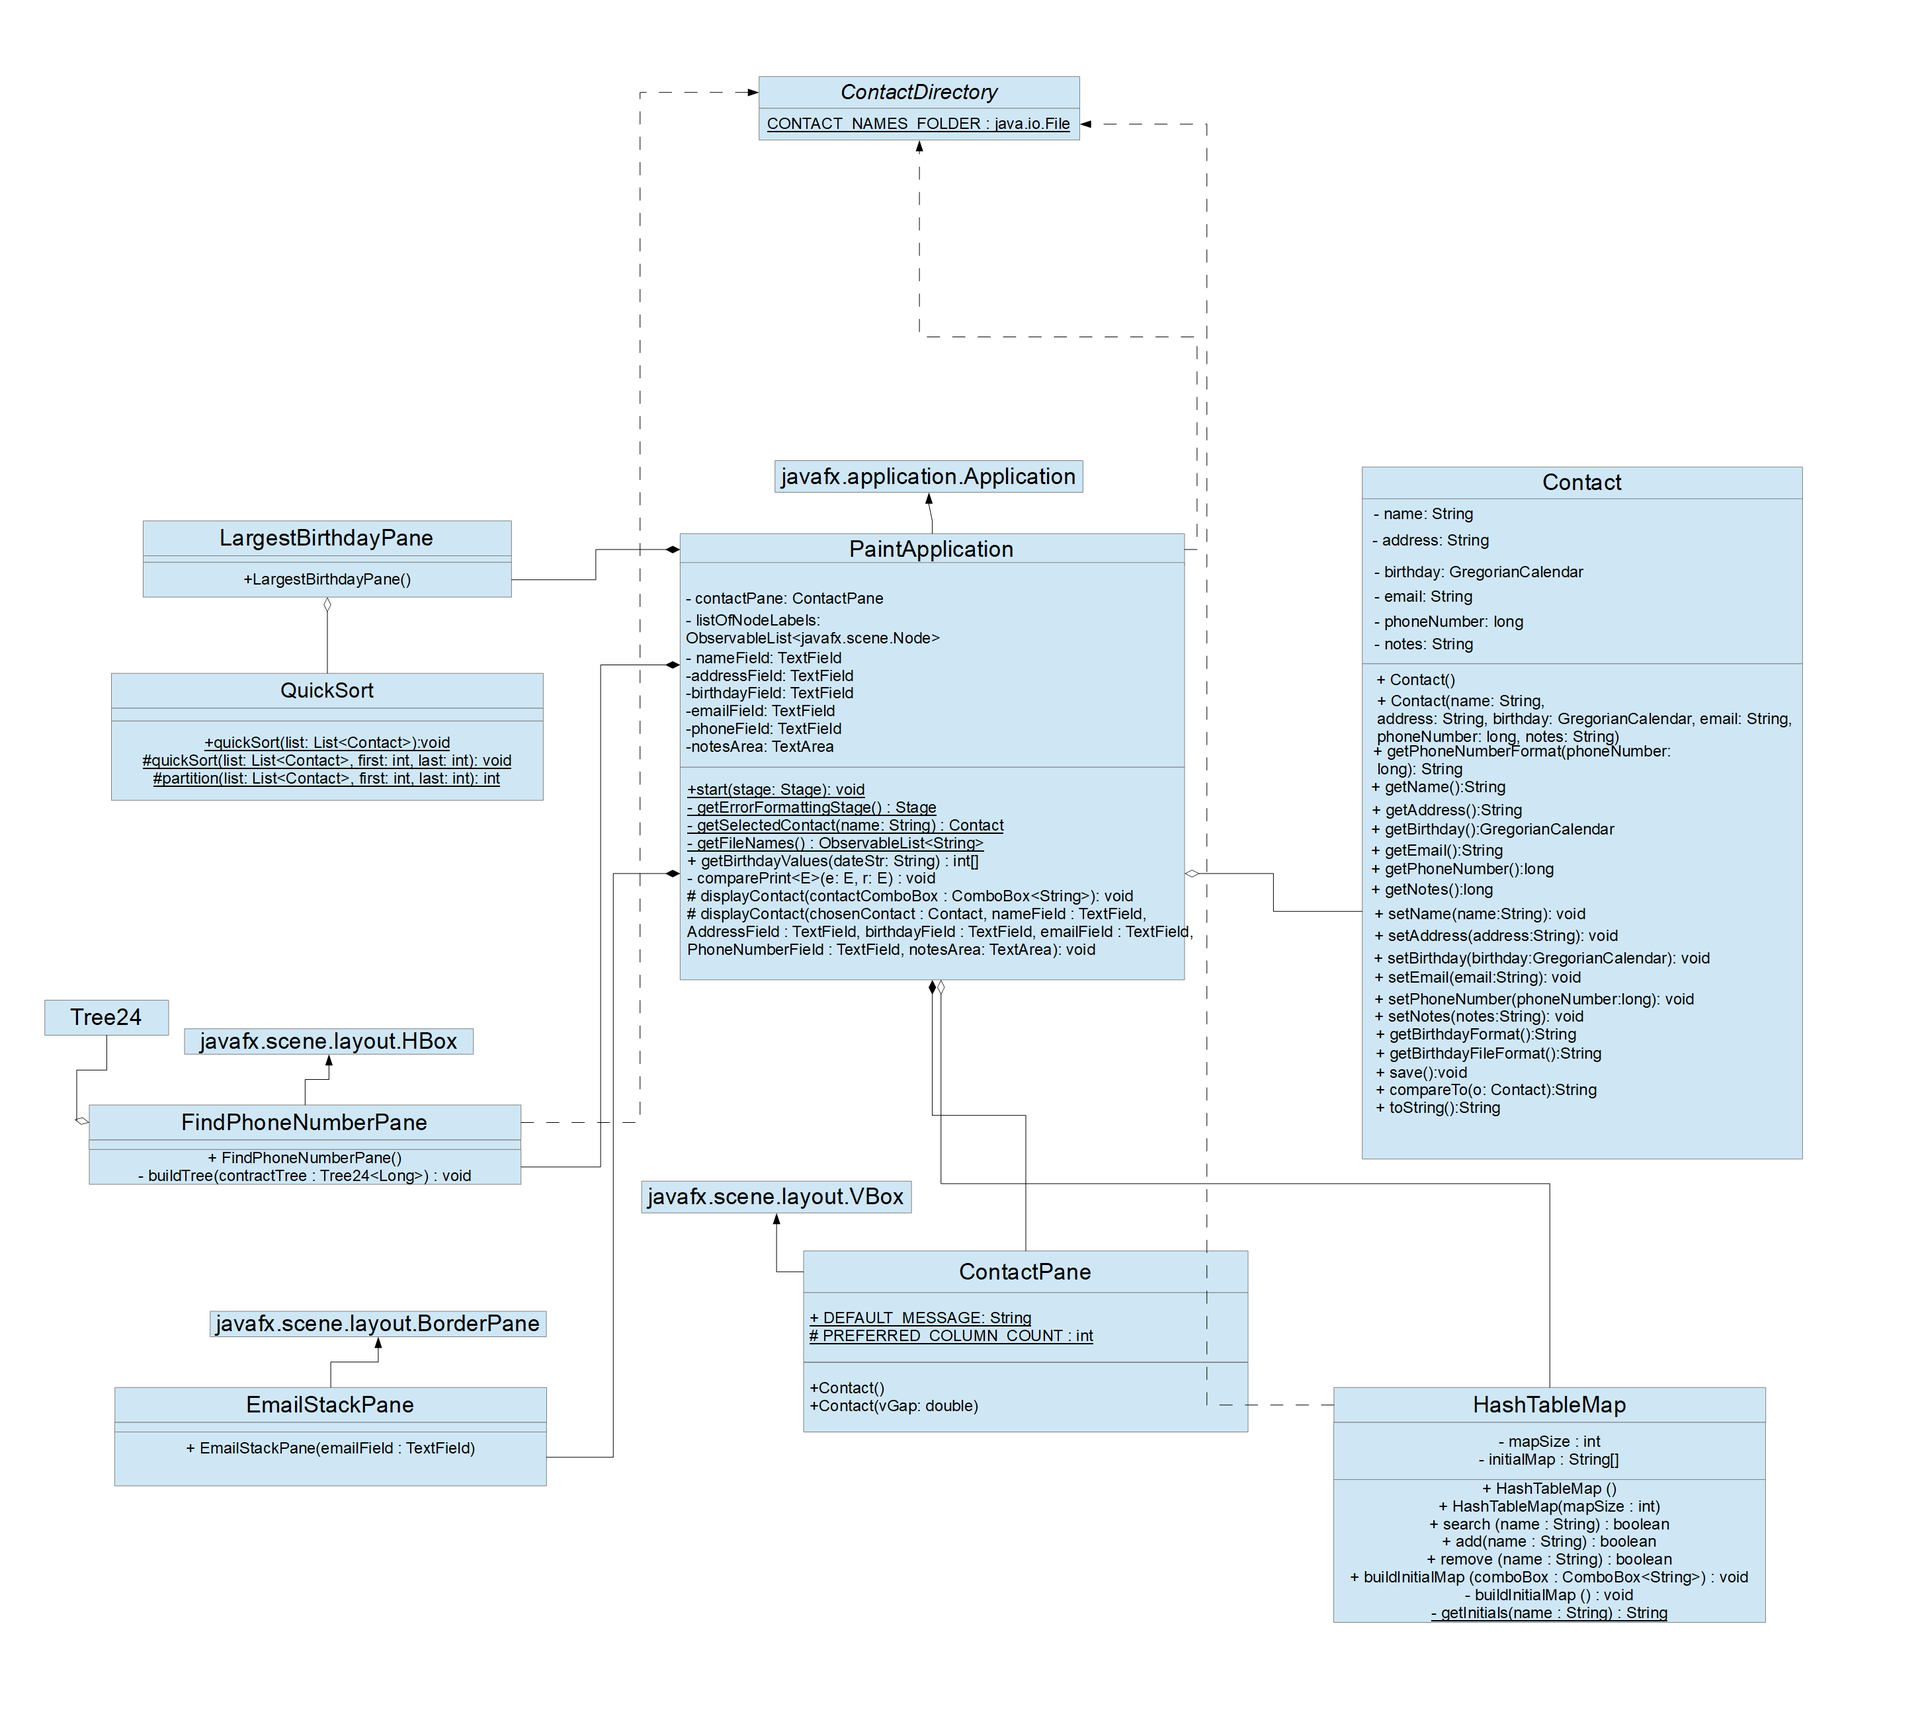
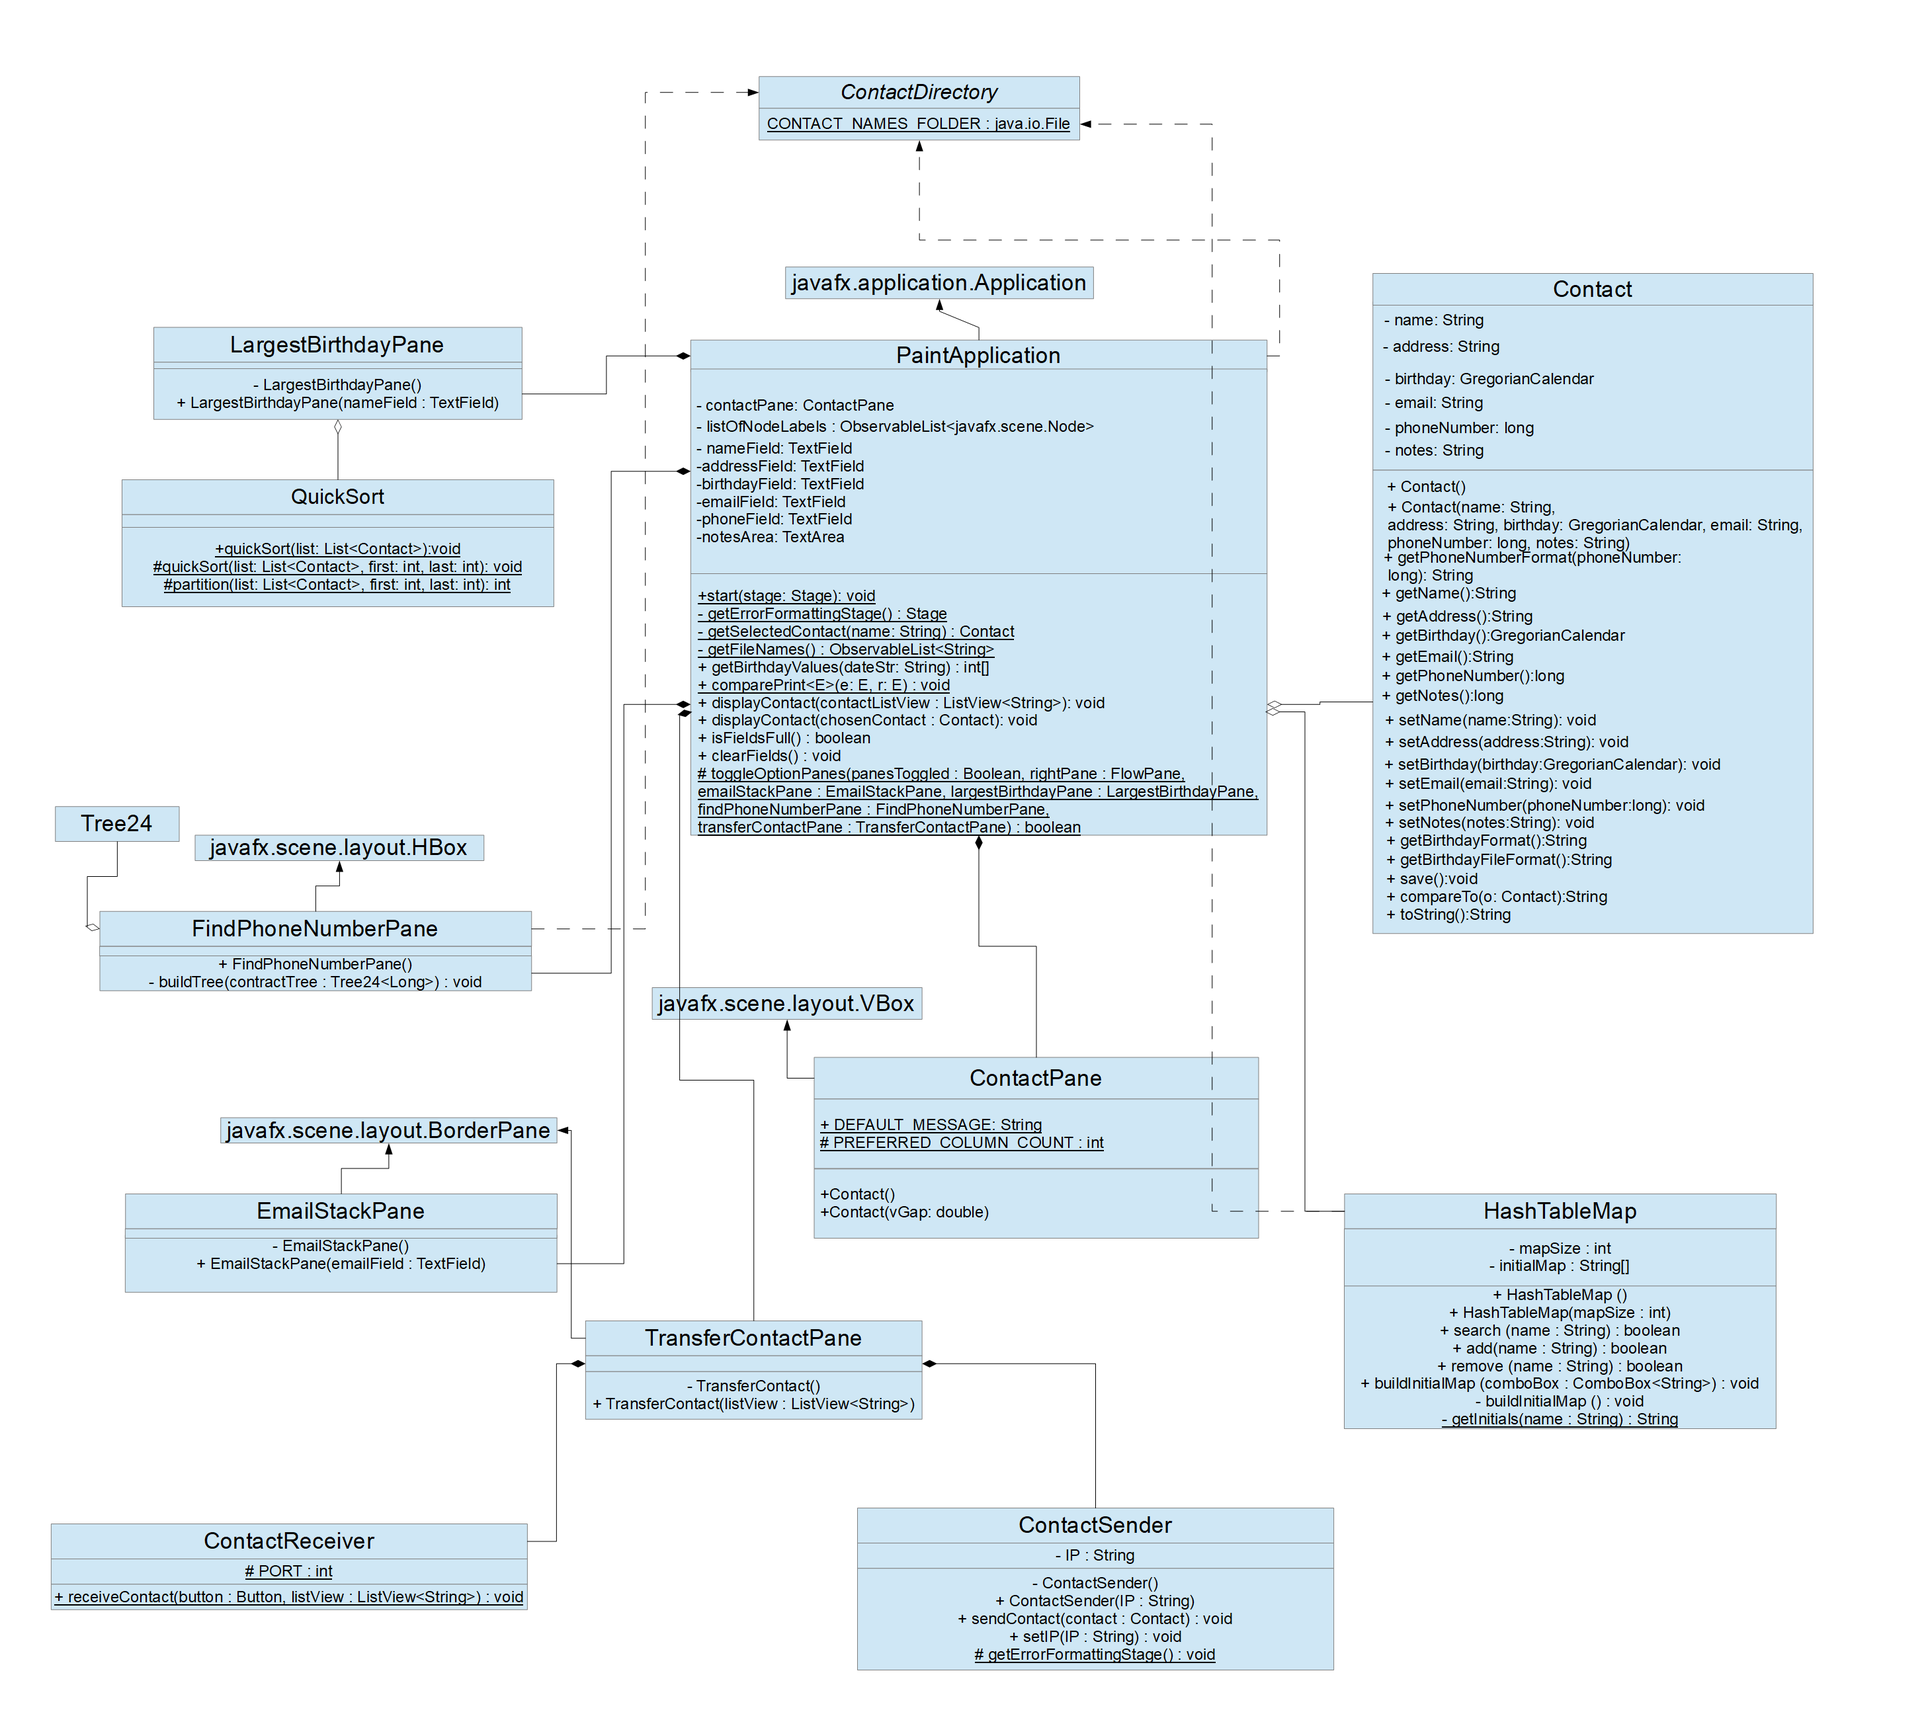
Part 4 Final Changes

diff --git a/src/PaintApplication.java b/src/PaintApplication.java
@@ -16,6 +16,7 @@ import javafx.stage.Stage;
 
 import java.io.*;
 import java.util.GregorianCalendar;
+import java.util.concurrent.atomic.AtomicReference;
 
 public class PaintApplication extends Application implements ContactDirectory {
 
@@ -84,6 +85,11 @@ public class PaintApplication extends Application implements ContactDirectory {
         searchOptionsPane.getChildren().add(searchLabel);
         searchOptionsPane.getChildren().add(contactListView);
 
+        Button newContactBT = new Button("New Contact");
+        newContactBT.setOnAction(e-> {
+            contactListView.getSelectionModel().clearSelection();
+            clearFields();
+        });
 
         // Create Edit Button.
         Button edit = new Button("Edit Contact");
@@ -117,7 +123,7 @@ public class PaintApplication extends Application implements ContactDirectory {
         Button saveContact = new Button("Save Contact/Edits");
         saveContact.setOnAction(e -> {
             // Do not do anything unless a contact is selected or one is being created
-            if (!nameField.getText().equals("Choose a contact!") && fieldsFull()) {
+            if (!nameField.getText().equals("Choose a contact!") && isFieldsFull()) {
 
                 try {
                     Contact contact = new Contact();
@@ -155,33 +161,47 @@ public class PaintApplication extends Application implements ContactDirectory {
             if (!nameField.getText().equals("Choose a contact!")) {
                 File file = new File("./src/ContactSaves/" + nameField.getText() + ".dat");
                 System.out.println("File deletion: " + file.delete()); // Print true or false.
+                contactListView.getSelectionModel().clearSelection();
                 contactListView.getItems().remove(nameField.getText()); // Remove name from combo box
                 hashTableMap.remove(nameField.getText()); // Remove name from the search map
             }
         });
-
         // Create pane for the buttons
-        HBox mainButtonPane = new HBox();
+        HBox mainButtonPane = new HBox(5);
         mainButtonPane.setStyle("-fx-border-color: orange");
         mainButtonPane.setPadding(new Insets(5, 5, 5, 5));
+        mainButtonPane.getChildren().add(newContactBT);
         mainButtonPane.getChildren().add(edit);
         mainButtonPane.getChildren().add(saveContact);
         mainButtonPane.getChildren().add(deleteContact);
+        Button togglePanesBT = new Button("More Options");
+        mainButtonPane.getChildren().add(togglePanesBT);
 
 
-        // Add nodes to pane
-        mainPane.getChildren().add(searchOptionsPane);
-        mainPane.getChildren().add(contactPane);
         FlowPane rightPane = new FlowPane();
         rightPane.setHgap(5);
         rightPane.setVgap(5);
+        // The first item in the rightPane should be the button Pane. The other items are added with the toggle button.
         rightPane.getChildren().add(mainButtonPane);
-        rightPane.getChildren().add(new EmailStackPane(this.emailField));
-        rightPane.getChildren().add(new LargestBirthdayPane(this.nameField));
-        rightPane.getChildren().add(new FindPhoneNumberPane());
-        TransferContactPane transferContactPane = new TransferContactPane(contactListView);
-        rightPane.getChildren().add(transferContactPane);
 
+
+        /* This creates the toggle button.
+         Initialize toggleBT as false since it hasn't been toggled yet. */
+        AtomicReference<Boolean> toggleBT = new AtomicReference<>(false);
+        EmailStackPane emailStackPane = new EmailStackPane(this.emailField);
+        LargestBirthdayPane largestBirthdayPane = new LargestBirthdayPane(this.nameField);
+        FindPhoneNumberPane findPhoneNumberPane = new FindPhoneNumberPane();
+        TransferContactPane transferContactPane = new TransferContactPane(contactListView);
+
+        // This makes it so that when the More Options button is pressed, it either displays or removes the extra panes.
+        togglePanesBT.setOnAction(e->
+            toggleBT.set(toggleOptionPanes(toggleBT.get(), rightPane, emailStackPane, largestBirthdayPane, findPhoneNumberPane, transferContactPane))
+        );
+
+
+        // Create the left side pane & the contactPane by adding it to the mainPane
+        mainPane.getChildren().add(searchOptionsPane);
+        mainPane.getChildren().add(contactPane);
         mainPane.getChildren().add(rightPane);
 
 
@@ -275,7 +295,7 @@ public class PaintApplication extends Application implements ContactDirectory {
         return array;
     }
 
-    private <E extends Comparable<E>> void comparePrint(E e, E r) {
+    public static <E extends Comparable<E>> void comparePrint(E e, E r) {
         if (e.compareTo(r) > 0)
             System.out.println("Larger!");
         else if (e.compareTo(r) == 0)
@@ -283,50 +303,72 @@ public class PaintApplication extends Application implements ContactDirectory {
         else System.out.println("Smaller!");
     }
 
-    // This method is used to display a contact
-    protected void displayContact(ListView<String> contactComboBox) {
-        String contactName = contactComboBox.getSelectionModel().getSelectedItem();
+    /** This method is used to retrieve and to display a contact in the contact text fields */
+    public void displayContact(ListView<String> contactListView) {
+        String contactName = contactListView.getSelectionModel().getSelectedItem();
         // Find the Contact Object based on the chosen name
         Contact chosenContact;
 
-        // This try-catch code is important. When a contact is deleted, the program runs into errors
-        // because it was accessing the deleted Contact. So, when an Exception during deletion,
-        // the code switches away from that contact to the first one in the ListView, but it
-        // doesn't have to be the first one; it can be any of them. Point is: it switches away
-        // from the deleted contact.
+        /* This try-catch code is important. When a contact is deleted, the program runs into errors
+         because it was accessing the deleted Contact. So, when an Exception during deletion,
+         the code switches away from that contact to the first one in the ListView, but it
+         doesn't have to be the first one; it can be any of them. Point is: it switches away
+         from the deleted contact. */
         try {
             chosenContact = getSelectedContact(contactName);
         } catch (Exception ex) {
-            String firstName = contactComboBox.getItems().get(0);
+            String firstName = contactListView.getItems().get(0);
             try {
                 chosenContact = getSelectedContact(firstName);
             } catch (Exception exc) {
                 throw new RuntimeException(exc);
             }
         }
-        displayContact(chosenContact, this.nameField, this.addressField, this.birthdayField,
-                this.emailField, this.phoneNumberField, this.notesArea);
+        displayContact(chosenContact);
     }
 
-    public static void displayContact(Contact chosenContact, TextField nameField, TextField addressField, TextField birthdayField,
-                                      TextField emailField, TextField phoneNumberField, TextArea notesArea) {
+    /** This method displays the contact */
+    public void displayContact(Contact chosenContact) {
 
-        // Set the fields
-        nameField.setText(chosenContact.getName());
-        addressField.setText(chosenContact.getAddress());
-        birthdayField.setText(chosenContact.getBirthdayFileFormat());
-        emailField.setText(chosenContact.getEmail());
-        phoneNumberField.setText(String.valueOf(chosenContact.getPhoneNumber()));
-        notesArea.setText(chosenContact.getNotes());
+        this.nameField.setText(chosenContact.getName());
+        this.addressField.setText(chosenContact.getAddress());
+        this.birthdayField.setText(chosenContact.getBirthdayFileFormat());
+        this.emailField.setText(chosenContact.getEmail());
+        this.phoneNumberField.setText(String.valueOf(chosenContact.getPhoneNumber()));
+        this.notesArea.setText(chosenContact.getNotes());
     }
 
     /**
      * This method returns true if all the fields are filled in. The notes text area is ignored
      * because that is allowed to be empty.
      */
-    public boolean fieldsFull() {
+    public boolean isFieldsFull() {
         return (!this.nameField.getText().isEmpty()) && (!this.addressField.getText().isEmpty())
                 && (!this.birthdayField.getText().isEmpty()) && (!emailField.getText().isEmpty())
                 && (!this.phoneNumberField.getText().isEmpty());
+    }
+    public void clearFields() {
+        nameField.clear();
+        addressField.clear();
+        birthdayField.clear();
+        emailField.clear();
+        phoneNumberField.clear();
+        notesArea.clear();
+    }
+    protected static boolean toggleOptionPanes(Boolean panesToggled, FlowPane rightPane, EmailStackPane emailStackPane, LargestBirthdayPane largestBirthdayPane,
+                                   FindPhoneNumberPane findPhoneNumberPane, TransferContactPane transferContactPane) {
+        if (!panesToggled) {
+            rightPane.getChildren().add(emailStackPane);
+            rightPane.getChildren().add(largestBirthdayPane);
+            rightPane.getChildren().add(findPhoneNumberPane);
+            rightPane.getChildren().add(transferContactPane);
+            // The options have been toggled. Flip boolean value. Return true.
+            return true;
+        }
+        else {
+            rightPane.getChildren().removeAll(emailStackPane, largestBirthdayPane, findPhoneNumberPane, transferContactPane);
+            // The options have been toggled. Flip boolean value. Return false.
+            return false;
+        }
     }
 }

diff --git a/src/TransferContactPane.java b/src/TransferContactPane.java
@@ -3,18 +3,22 @@ import javafx.geometry.Pos;
 import javafx.scene.control.*;
 import javafx.scene.layout.VBox;
 
+/**
+ * This class is a pane that contains both panes for receiving and sending contacts.
+ */
 public class TransferContactPane extends javafx.scene.layout.BorderPane {
     private TransferContactPane() {
-
+        // Set to private so that it is not used.
     }
     public TransferContactPane(ListView<String> listView) {
             this.setPadding(new Insets(5, 5, 5, 5));
-            this.setStyle("-fx-border-color: green");
+            // color is brown
+            this.setStyle("-fx-border-color: SIENNA");
 
             VBox sendPane = new VBox(5);
             sendPane.setPadding(new Insets(5, 5, 5, 5));
             sendPane.setAlignment(Pos.CENTER);
-            sendPane.setStyle("-fx-border-color: blue");
+            sendPane.setStyle("-fx-border-color: MEDIUMAQUAMARINE");
             TextField IPField = new TextField();
             Label IPLabel = new Label("Input IP Here", IPField);
             IPLabel.setContentDisplay(ContentDisplay.BOTTOM);
@@ -42,7 +46,7 @@ public class TransferContactPane extends javafx.scene.layout.BorderPane {
             receivePane.setAlignment(Pos.CENTER);
             receivePane.setPadding(new Insets(5, 5, 5, 5));
 
-            receivePane.setStyle("-fx-border-color: yellow");
+//            receivePane.setStyle("-fx-border-color: LIGHTCORAL");
             Button receiveContactButton = new Button("Receive Contact");
 
             receivePane.getChildren().add(receiveContactButton);

diff --git a/src/ContactReceiver.java b/src/ContactReceiver.java
@@ -18,7 +18,7 @@ public class ContactReceiver {
 
     /**
      * This method receives and saves a contact as a file.
-     * Since this method uses the accept() method, make sure to use
+     * Since this method uses the accept() method, this uses
      * the receiveContact method in a Thread to prevent the JavaFX UI
      * from freezing up.
      */
@@ -47,7 +47,7 @@ public class ContactReceiver {
                     downloadsStage.show();
                 });
             } catch (IOException | ClassNotFoundException e) {
-                System.out.println("ContactReceiver.java");
+                System.out.println("ContactReceiver.java double click");
                 /* Will produce an error if more than one thread is running. This is great, because
                  it makes sure only one thread runs at a time. I believe the error comes from
                  attempting to create the ServerSocket object from separate threads (I am too lazy to verify).

diff --git a/src/ContactPane.java b/src/ContactPane.java
@@ -40,7 +40,7 @@ public class ContactPane extends VBox {
         TextField birthdayField = new TextField(DEFAULT_MESSAGE);
         birthdayField.setPrefColumnCount(PREFERRED_COLUMN_COUNT);
         birthdayField.setEditable(false);
-        Label birthdayLabel = new Label("Date of Birth: \nFormat: year month day", birthdayField);
+        Label birthdayLabel = new Label("Date of Birth: \nFormat: year/month/day", birthdayField);
         birthdayLabel.setContentDisplay(ContentDisplay.RIGHT);
         this.getChildren().add(birthdayLabel);
 

diff --git a/src/ContactSender.java b/src/ContactSender.java
@@ -33,7 +33,7 @@ public class ContactSender {
     }
 
     protected static void getErrorFormattingStage() {
-        Text error = new Text("Error. The IP is invalid or there is no user to receive data.");
+        Text error = new Text("Error. The IP is invalid, or there is no user to receive data.");
         BorderPane errorPane = new BorderPane();
         errorPane.setCenter(error);
         Scene errorScene = new Scene(errorPane, 300, 300);

diff --git a/src/FindPhoneNumberPane.java b/src/FindPhoneNumberPane.java
@@ -13,7 +13,7 @@ public class FindPhoneNumberPane extends javafx.scene.layout.HBox implements Con
 
 
     public FindPhoneNumberPane() {
-        this.setStyle("-fx-border-color: green");
+        this.setStyle("-fx-border-color: purple");
         this.setPadding(new Insets(5, 5, 5, 5));
 
         // Build the 2-4 Tree

diff --git a/src/LargestBirthdayPane.java b/src/LargestBirthdayPane.java
@@ -13,7 +13,6 @@ import java.util.LinkedList;
 
 public class LargestBirthdayPane extends BorderPane {
     private LargestBirthdayPane() {
-
     }
     /**
      * This is used to add Contacts to an linkedList and to display the oldest birthday

diff --git a/src/EmailStackPane.java b/src/EmailStackPane.java
@@ -16,7 +16,7 @@ import java.util.Stack;
 
 public class EmailStackPane extends BorderPane {
     private EmailStackPane() {
-
+        // Private because this constructor would be invalid.
     }
 
     /**
